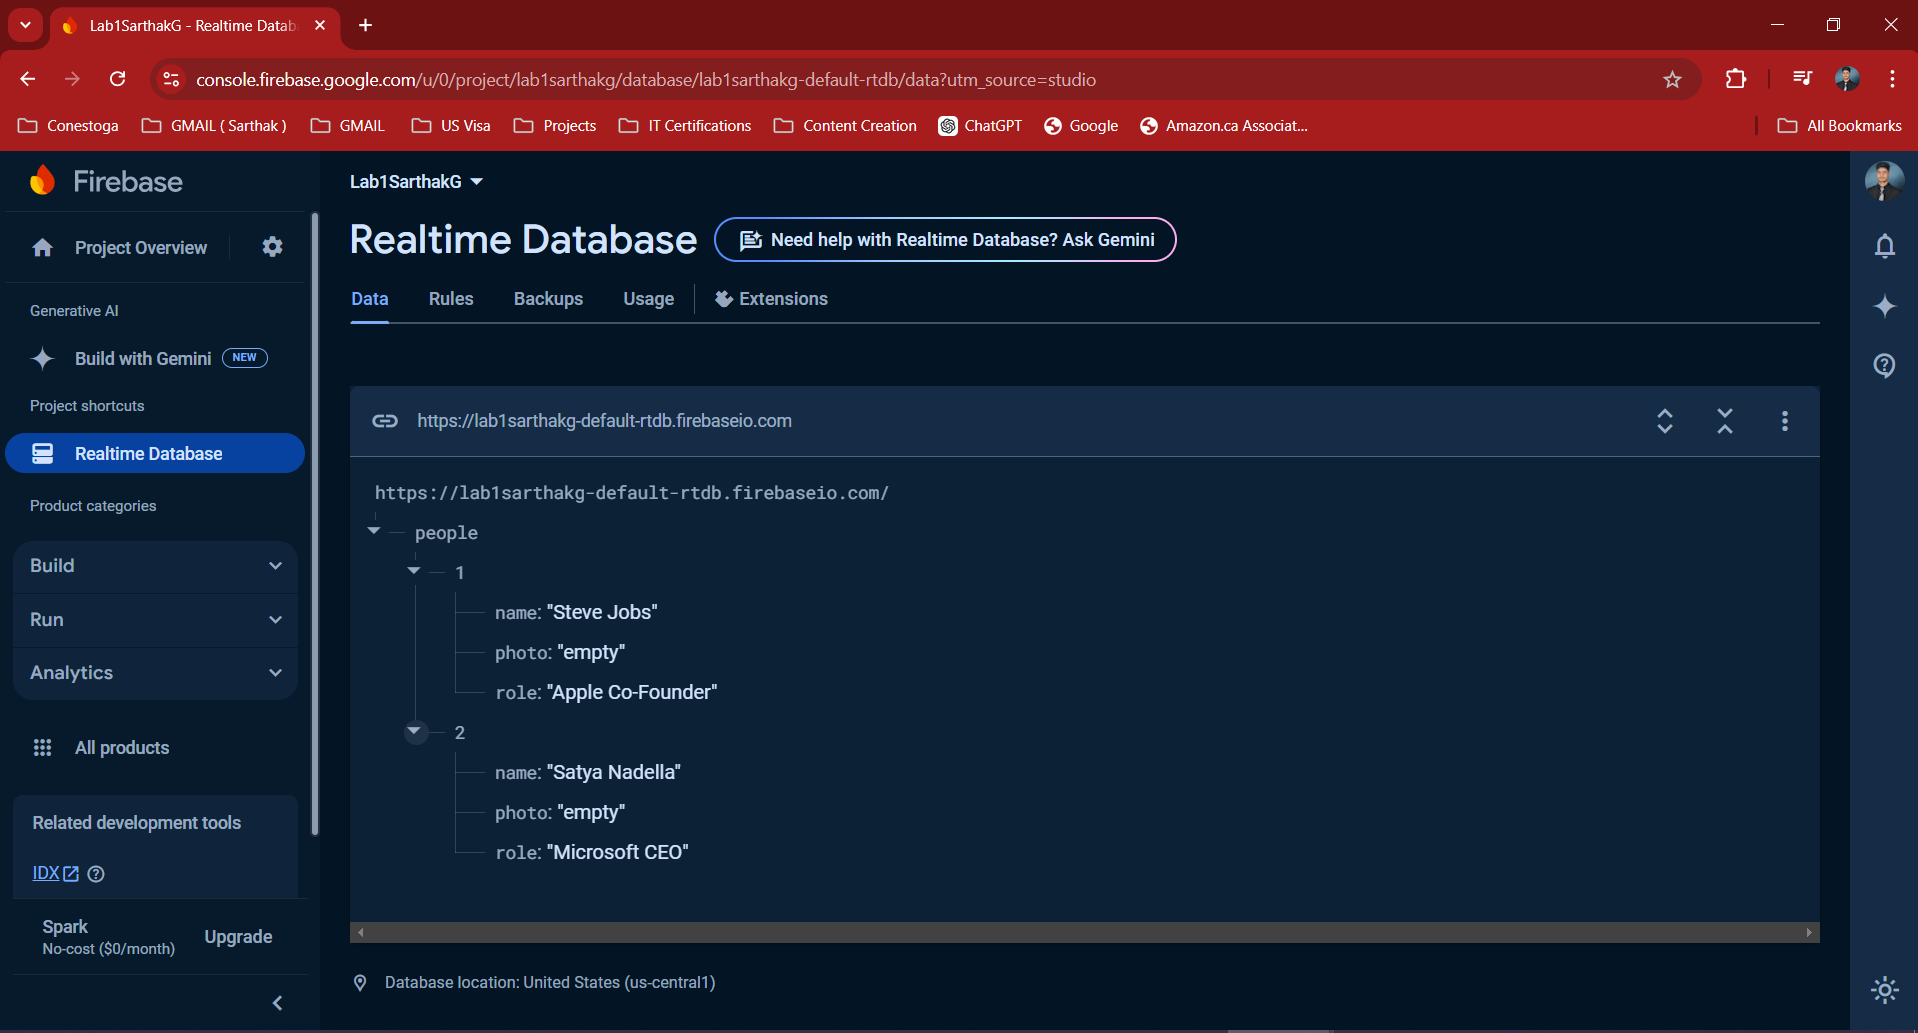
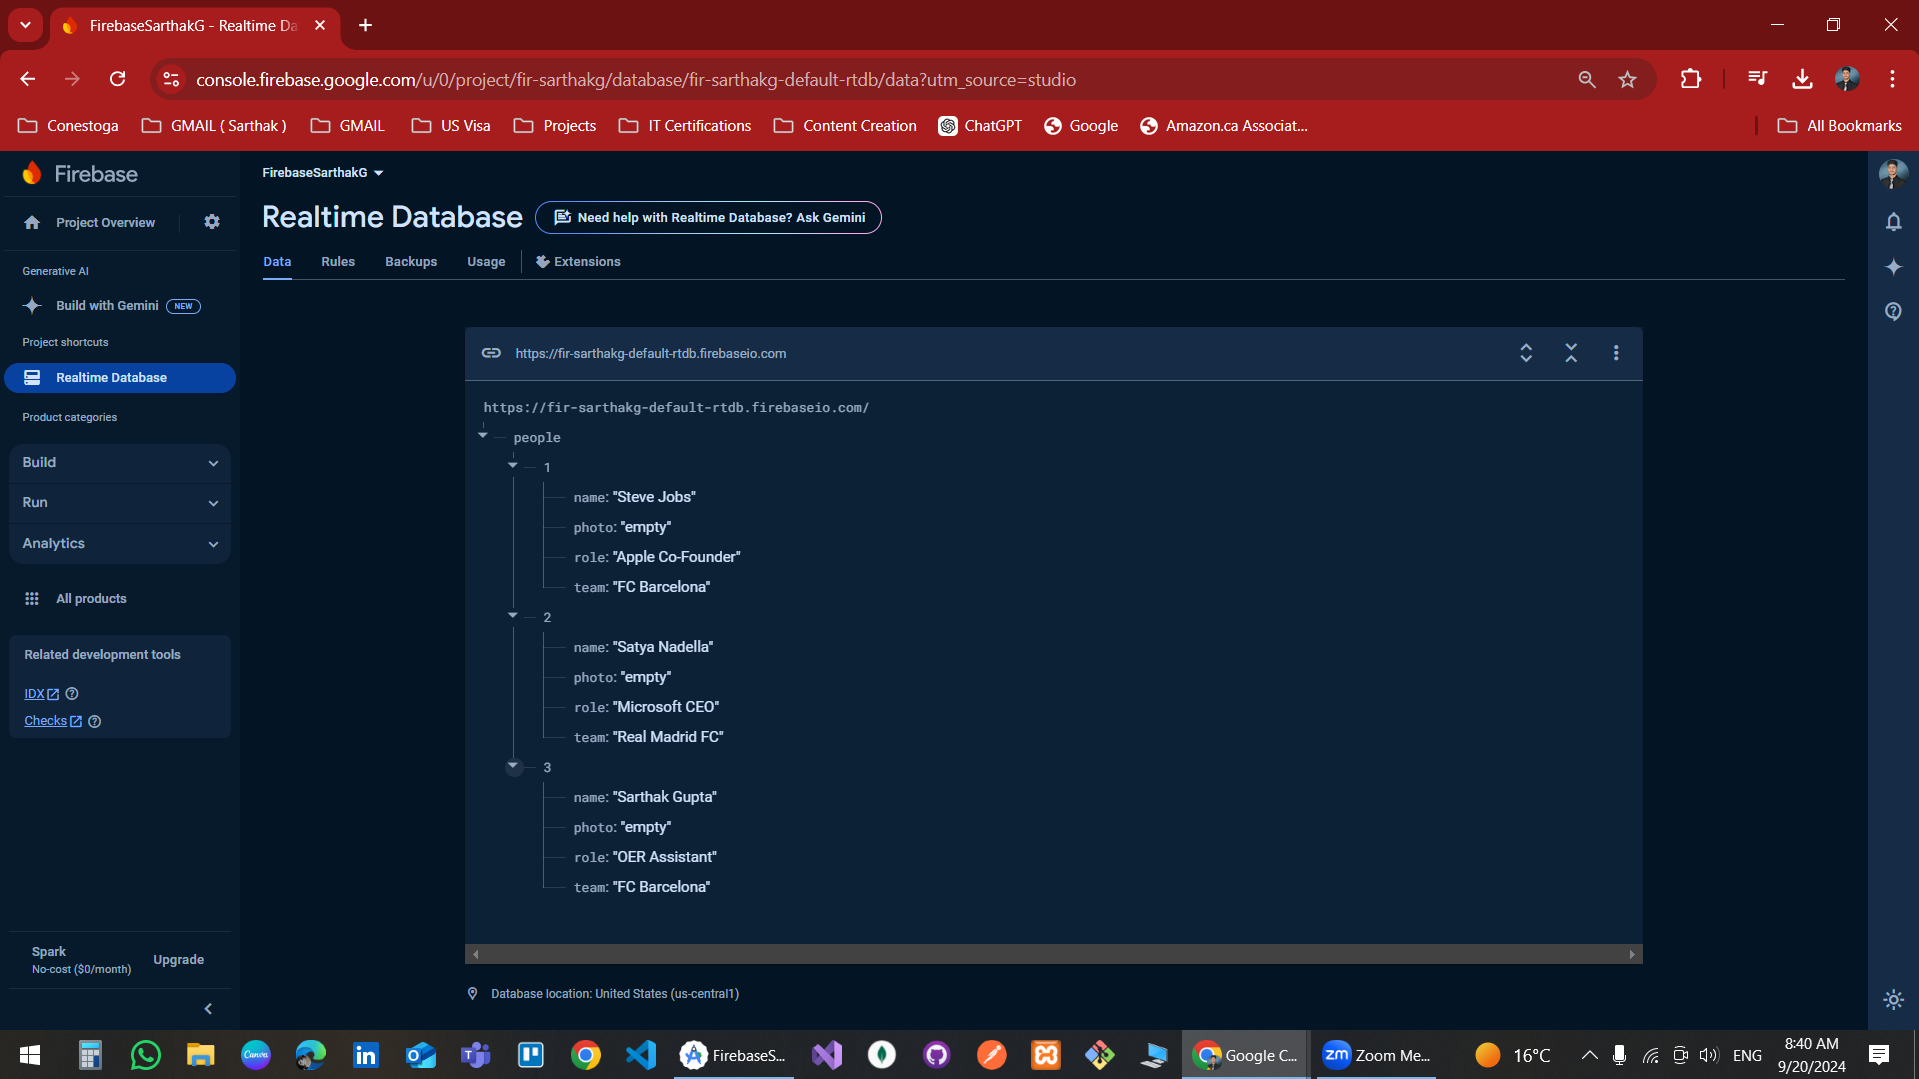
updating files

diff --git a/app/src/androidTest/java/com/example/firebasesarthakg/ExampleInstrumentedTest.kt b/app/src/androidTest/java/com/example/firebasesarthakg/ExampleInstrumentedTest.kt
@@ -1,4 +1,4 @@
-package com.example.lab1sarthakg
+package com.example.firebasesarthakg
 
 import androidx.test.platform.app.InstrumentationRegistry
 import androidx.test.ext.junit.runners.AndroidJUnit4
@@ -19,6 +19,6 @@ class ExampleInstrumentedTest {
     fun useAppContext() {
         // Context of the app under test.
         val appContext = InstrumentationRegistry.getInstrumentation().targetContext
-        assertEquals("com.example.lab1sarthakg", appContext.packageName)
+        assertEquals("com.example.firebasesarthakg", appContext.packageName)
     }
 }

diff --git a/app/src/main/java/com/example/firebasesarthakg/MainActivity.kt b/app/src/main/java/com/example/firebasesarthakg/MainActivity.kt
@@ -1,4 +1,4 @@
-package com.example.lab1sarthakg
+package com.example.firebasesarthakg
 
 import android.os.Bundle
 import com.google.android.material.snackbar.Snackbar
@@ -9,7 +9,7 @@ import androidx.navigation.ui.navigateUp
 import androidx.navigation.ui.setupActionBarWithNavController
 import android.view.Menu
 import android.view.MenuItem
-import com.example.lab1sarthakg.databinding.ActivityMainBinding
+import com.example.firebasesarthakg.databinding.ActivityMainBinding
 
 class MainActivity : AppCompatActivity() {
 

diff --git a/app/src/main/java/com/example/firebasesarthakg/Person.kt b/app/src/main/java/com/example/firebasesarthakg/Person.kt
@@ -1,0 +1,3 @@
+package com.example.firebasesarthakg
+
+data class Person(var name: String = "", var role: String = "", var photo: String = "", var team: String ="")

diff --git a/app/src/test/java/com/example/firebasesarthakg/ExampleUnitTest.kt b/app/src/test/java/com/example/firebasesarthakg/ExampleUnitTest.kt
@@ -1,4 +1,4 @@
-package com.example.lab1sarthakg
+package com.example.firebasesarthakg
 
 import org.junit.Test
 

diff --git a/app/src/main/java/com/example/firebasesarthakg/PersonAdapter.kt b/app/src/main/java/com/example/firebasesarthakg/PersonAdapter.kt
@@ -1,0 +1,4 @@
+package com.example.firebasesarthakg
+
+class PersonAdapter {
+}
